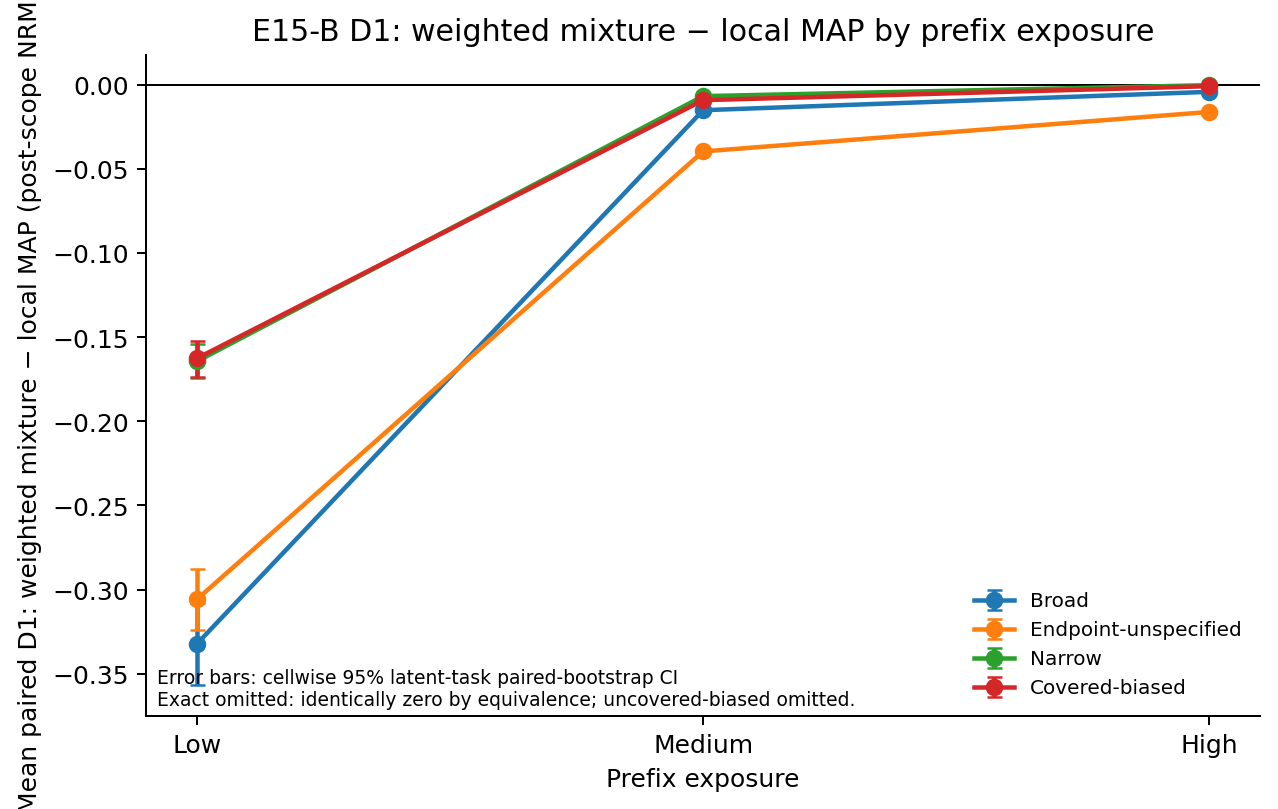
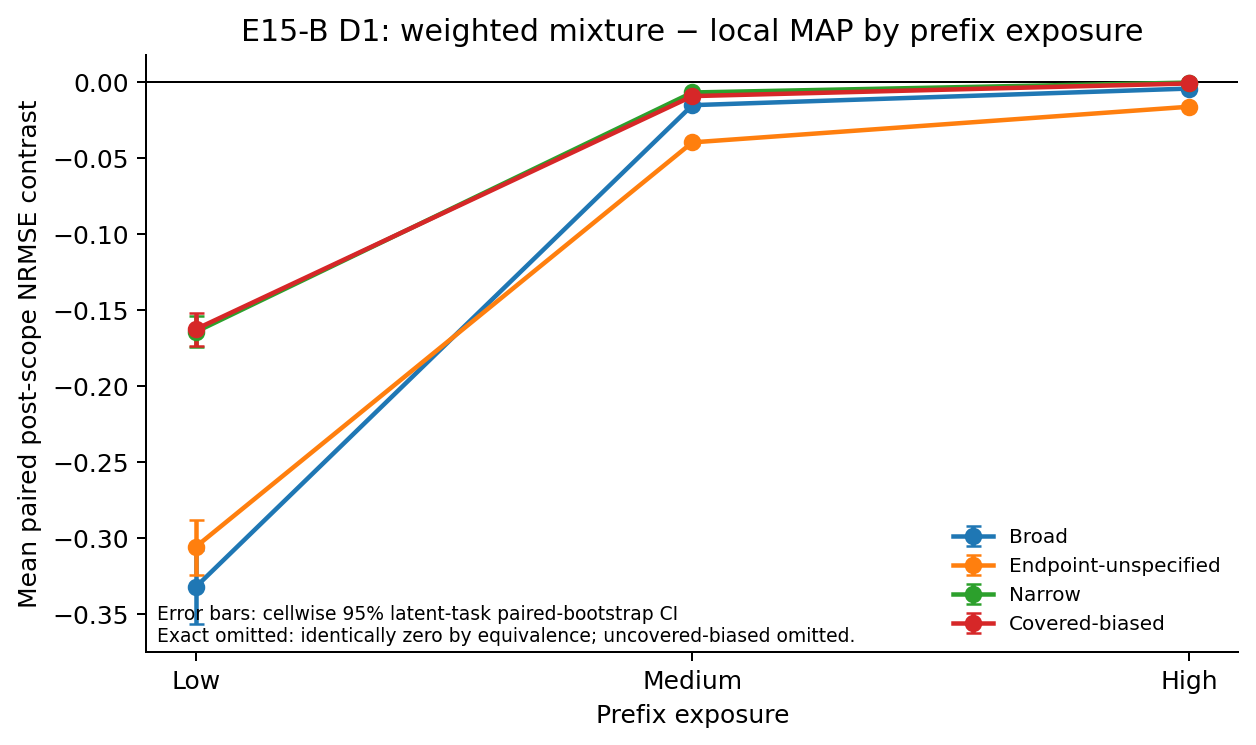
fix E15-B figure labels

diff --git a/experiments/render_e15b_d1_d2_figures.py b/experiments/render_e15b_d1_d2_figures.py
@@ -26,7 +26,7 @@ def load(path: Path, field: str) -> dict[tuple[str, str], dict[str, float]]:
 
 def render(data: dict, metric: str, out: Path) -> None:
     plt.rcParams.update({"font.size": 10, "axes.spines.top": False, "axes.spines.right": False})
-    fig, ax = plt.subplots(figsize=(7.2, 4.6), dpi=180)
+    fig, ax = plt.subplots(figsize=(8.2, 4.8), dpi=180)
     x = np.arange(len(EXPOSURES))
     for state in STATES:
         vals = [data[(state, exposure)] for exposure in EXPOSURES]
@@ -37,11 +37,11 @@ def render(data: dict, metric: str, out: Path) -> None:
     ax.axhline(0., color="black", linewidth=.8)
     ax.set_xticks(x, ("Low", "Medium", "High"))
     ax.set_xlabel("Prefix exposure")
-    ax.set_ylabel(f"Mean paired {metric} (post-scope NRMSE)")
+    ax.set_ylabel("Mean paired post-scope NRMSE contrast")
     ax.set_title(f"E15-B {metric} by prefix exposure")
     ax.legend(frameon=False, fontsize=8, loc="best")
     ax.text(.01, .01, "Error bars: cellwise 95% latent-task paired-bootstrap CI\nExact omitted: identically zero by equivalence; uncovered-biased omitted.", transform=ax.transAxes, va="bottom", fontsize=7.5)
-    fig.tight_layout()
+    fig.subplots_adjust(left=.24, right=.98, bottom=.19, top=.88)
     out.parent.mkdir(parents=True, exist_ok=True)
     fig.savefig(out, bbox_inches="tight")
     plt.close(fig)
